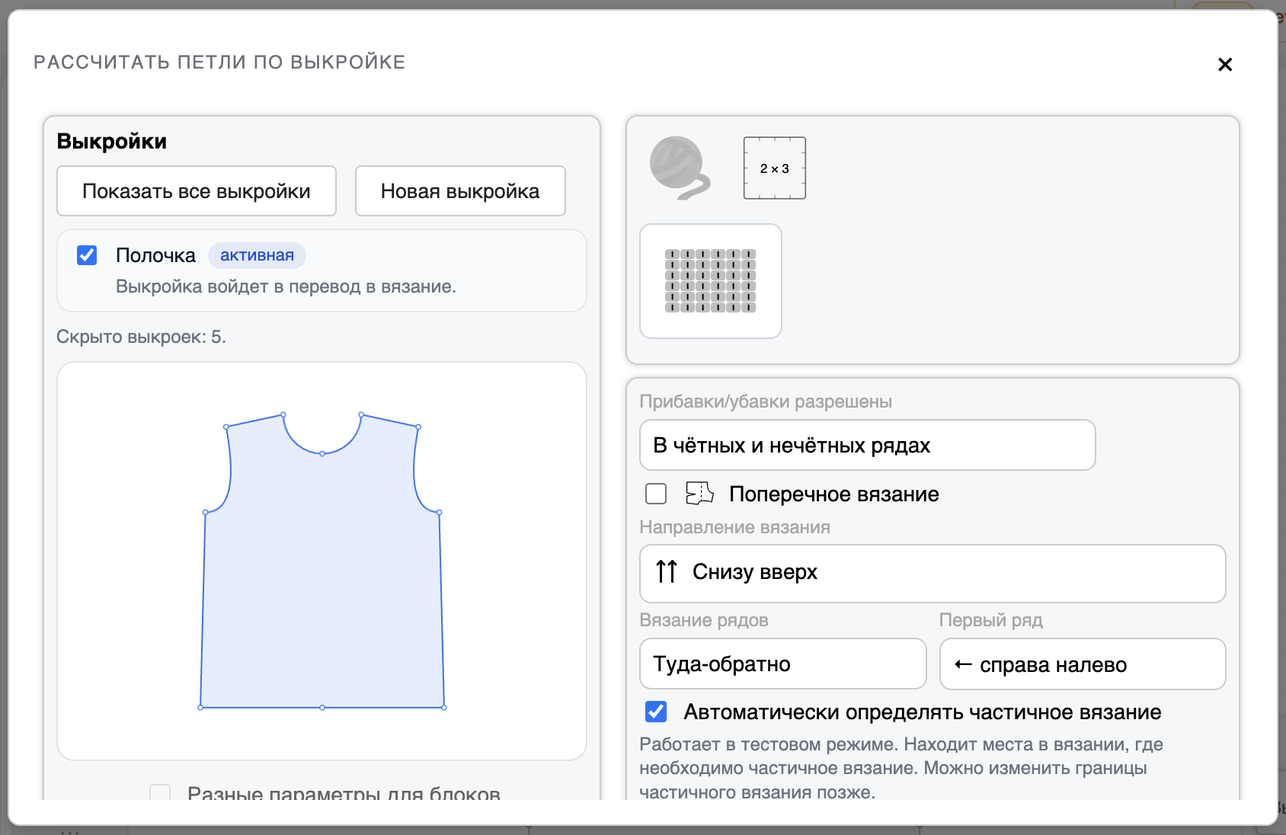
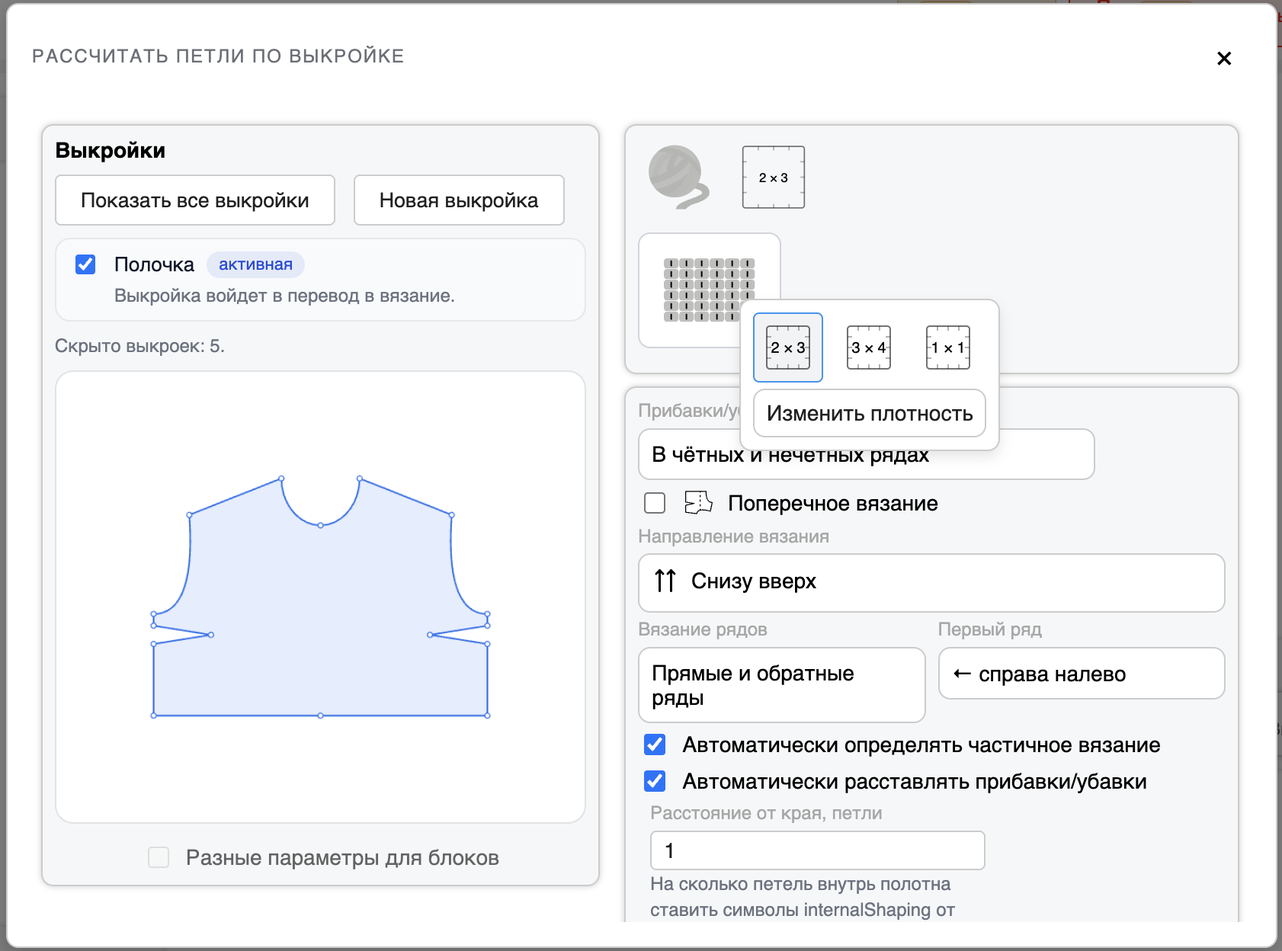
Update pattern-to-knitting calculation documentation

diff --git a/docusaurus.config.js b/docusaurus.config.js
@@ -82,6 +82,12 @@ const config = {
           exclude: process.env.NODE_ENV === 'production' ? ['**/dev-progress.js'] : [],
         },
 
+        sitemap: {
+          lastmod: 'date',
+          changefreq: null,
+          priority: null,
+        },
+
         theme: {
           customCss: './src/css/custom.css',
         },

diff --git a/docs/concepts/pattern-to-knitting.md b/docs/concepts/pattern-to-knitting.md
@@ -1,21 +1,18 @@
 ---
 id: pattern-to-knitting-concept
-title: "Перевод выкройки в схему вязания"
+title: "Расчет петель для вязания по выкройке"
 description: "Что происходит, когда CustomKnits рассчитывает схему вязания по выкройке."
-sidebar_label: "Перевод выкройки в схему вязания"
+sidebar_label: "Расчет петель для вязания по выкройке"
 sidebar_position: 6
 doc_type: "concept"
 product_area: "knitting"
 owner: "docs"
 status: "done"
-last_reviewed: "2026-06-07"
+last_reviewed: "2026-07-30"
 ---
 
-# Перевод выкройки в схему вязания
+# Расчет петель для вязания по выкройке
 
-Перевод выкройки в схему вязания — это расчет, в котором форма в сантиметрах превращается в схему из петель.
-
-Редактор берет геометрию выкройки, выбранную плотность и параметры расчета, а затем строит схему вязания. После расчета схема становится отдельной сущностью: ее можно редактировать как обычную схему вязания.
 
 <img
   src={require('/img/knitting/pattern-to-knitting/calculate-from-pattern-form.png').default}
@@ -23,35 +20,100 @@ last_reviewed: "2026-06-07"
   alt="Форма расчета петель по выкройке"
 />
 
+Расчет петель по выкройке — одна из ключевых функций редактора.
+
+При разработке редактора мы решаем сразу несколько задач, которые иногда противоречат друг другу. Это во многом отражает и само вязание: мы стремимся получить точную форму, но работаем с полотном, состоящим из отдельных петель. Размер петли неизбежно ограничивает точность, с которой можно воспроизвести выкройку.
+
+Во-первых, процесс проектирования должен быть понятным для человека, который вяжет. Пользователь работает с привычными понятиями: рядами, петлями, прибавками, убавками, частичным вязанием, набором и закрытием петель. Редактор строится вокруг логики вязания.
+
+Во-вторых, мы хотели сделать инструмент достаточно универсальным. Алгоритм не рассчитан на несколько заранее подготовленных шаблонов изделий. Его задача — уметь работать с произвольными выкройками. Во время расчёта петель редактор не знает, рассчитывает ли он рукав, перед, капюшон или совершенно произвольную деталь. Алгоритм работает с геометрией, а не с заранее заданными типами изделий.
+
+Наконец, результат должен соответствовать реальной технологии вязания. Недостаточно получить силуэт, похожий на исходную выкройку. Необходимо понимать, каким образом эта форма возникает ряд за рядом, петля за петлей, где выполняются прибавки и убавки, а где требуется частичное вязание или специальные приёмы.
+
+Из-за этого расчёт петель по выкройке выполняется в несколько этапов, и на каждом из них возникают свои задачи и ограничения.
+
+Сначала необходимо определить, какая клеточная форма должна получиться с учётом плотности вязания.
+
+Затем — решить, какими вязальными операциями эту форму можно построить.
+
+И только после этого — проверить, что каждая петля имеет непротиворечивую историю и что получившуюся схему действительно можно связать.
+
+Ниже мы подробно разбираем, что происходит на каждом этапе, почему алгоритм принимает именно такие решения и на какие из этих решений вы может повлиять.
+
+
+# 1. Собираем требования к переводу и создаем петельное представление
+
+Работа начинается с обычной выкройки. На этом этапе редактор ещё не думает о прибавках, убавках или способах вязания. Его первая задача — определить, как должна выглядеть форма детали в петлях.
+
+Для этого сначала собираются все требования, которые необходимо учесть при расчёте. Это направление вязания, направление вязания внутри рядов, участки, в которых разрешены или запрещены прибавки и убавки, заданный ритм формирования отдельных линий, выбранные способы их вязания, а также блоки выкройки, для которых действуют собственные правила.
+
+Большинство этих требований задаёте вы сами при создании выкройки и выборе параметров переводчика.
+
+Кроме пользовательских настроек существуют и правила, встроенные в сам алгоритм. Они отражают привычные ожидания человека. Например, если две части выкройки выглядят одинаковыми или симметричными, то и рассчитанное петельное представление должно быть одинаковым и симметричным.
+
+Проблема в том, что единственного правильного способа совместить все эти требования при переводе геометрической формы в петельное представление не существует. Иногда они начинают противоречить друг другу. Например, можно точнее повторить контур выкройки, но потерять симметрию, или наоборот — немного изменить форму, зато сохранить одинаковые клинья или одинаковый ритм формирования.
+
+Поэтому задача редактора — не найти «единственно правильное» решение, а выбрать наиболее естественный вариант с точки зрения вязания.
+
+Чтобы у алгоритма было пространство для такого выбора, в переводчике используется допустимая геометрическая погрешность. Петельное представление может отличаться от исходной выкройки не более чем на 1,5 см. В пределах этой погрешности редактор может немного изменить количество петель или рядов, если это позволяет получить более симметричную, аккуратную или естественную для вязания форму.
+
+Например, если редактор видит на выкройке четыре одинаковых клина, то он скорее выберет решение, в котором все четыре клина останутся одинаковыми в петлях, даже если для этого общая ширина детали станет на пару петель больше, чем следует строго по выкройке. Это предпочтительнее, чем получить идеально точную ширину, но нарушить ритм и симметрию клиньев.
+
+Если коротко, редактор на этом этапе исходит из принципа: «Красивые линии убавок никто не отменял».
+
+# 2. Превращаем форму из петель в последовательность вязальных операций
+
+На первом этапе редактор определил, какой должна получиться форма детали в петлях. Теперь возникает новый вопрос: как эта форма могла появиться в процессе вязания?
+
+Каждая петля должна иметь понятную историю. Если в каком-то месте петля исчезла, редактор должен определить, что именно произошло: была выполнена убавка внутри полотна, петля была закрыта по краю или осталась на спице в результате частичного вязания. Если петля появилась, необходимо понять, была ли она набрана или возникла другим способом.
+
+На этом этапе геометрия уже известна. Теперь редактор решает технологическую задачу: какие вязальные операции и в каком порядке позволяют получить рассчитанную форму.
+
+Не каждую операцию можно выполнить в любом месте полотна. Необходимо определить, где допустимо выполнять прибавки и убавки, где можно закрывать или набирать петли, когда следует перейти на частичное вязание, а когда изменить направление вязания внутри рядов. Если какое-либо действие невозможно выполнить в нужной точке, редактор должен найти ближайшее место, где оно будет технологически корректным.
+
+Именно здесь начинают играть ключевую роль требования, собранные на первом этапе. Направление вязания, разрешённая четность рядов для прибавок и убавок, предпочтительный ритм формирования линий и другие параметры не просто влияют на внешний вид детали — они определяют, какие технологические решения редактор вообще может принять.
+
+Поэтому если у вас есть определённые ожидания от результата, их важно задать заранее — при создании выкройки и выборе параметров переводчика.
+
+# 3. Проверяем полученную схему на непротиворечивость
+
+После того как редактор определил форму детали и восстановил последовательность вязальных операций, необходимо убедиться, что получившуюся схему действительно можно связать.
+
+На этом этапе редактор проверяет непротиворечивость всей последовательности рядов. Он отслеживает историю каждой петли и убеждается, что все операции согласованы между собой. Если обнаруживается ситуация, которую невозможно однозначно объяснить с точки зрения технологии вязания, редактор сообщает об этом пользователю.
+
+Критическими считаются ошибки, которые делают схему невыполнимой или неоднозначной. Например:
+
+в ряду осталась незакрытая петля;
+петля появилась «из ниоткуда» — редактор не смог определить, какой вязальной операцией она должна была возникнуть;
+одновременно требуется закрыть петли в конце ряда и выполнить набор петель в начале следующего ряда.
+
+Все найденные ошибки редактор подсвечивает непосредственно в схеме, чтобы их можно было быстро найти и исправить.
+
+Главный принцип этого этапа прост: если редактор не смог уверенно определить правильную вязальную операцию, он не станет делать предположение молча. Лучше предупредить о неоднозначности заранее, чем обнаружить проблему в процессе вязания, когда значительная часть детали уже выполнена.
+
+На практике такие ситуации встречаются редко и обычно связаны со сложной или нестандартной геометрией детали. Если редактор не смог автоматически принять решение, это означает, что существует несколько возможных вариантов построения схемы. В этом случае окончательный выбор остаётся за пользователем, который лучше знает, какой технологический приём подходит для конкретной модели.
+
+
+# Продолжение работы с готовым расчетом
+
+После создания расчета схема остается полностью редактируемой. При необходимости вы можете изменить ее вручную — например, для деталей со сложной геометрией, в местах, где невозможно одновременно удовлетворить все ограничения, или если этого требует дизайнерское решение.
+
+Также после создания расчета можно зафиксировать расположение убавок и прибавок. После этого вы сможете свободно менять узоры, пряжу и другие параметры детали, не опасаясь нарушить ее форму.
+
+
 ## Что влияет на результат
 
 Главный параметр расчета — плотность. Если плотность задана точно по образцу, схема будет ближе к размерам выкройки. Если плотность примерная, результат тоже будет примерным.
 
 На результат также влияют:
 
-- выбранные выкройки;
 - пряжа;
 - узор;
 - направление вязания;
-- способ вязания;
 - настройки прибавок, убавок и частичного вязания;
-- блоки выкройки, если они заданы.
-
-## Зачем нужны параметры расчета
-
-Параметры расчета нужны не только для количества петель. Они помогают сделать схему удобнее для дальнейшего вязания: вручную или на бытовой вязальной машине.
-
-Например, можно выбрать направление первого ряда, ограничить ряды, в которых допустимы прибавки и убавки, или включить поперечное вязание.
-
-## Блоки выкройки
-
-Если на выкройке есть блоки, для разных областей можно задать разные параметры перевода. Например, выбрать один узор для резинки и другой для основного полотна.
-
-Блоки также можно использовать для дизайна: например, заранее задать колор-блок из разных пряж на уровне выкройки, а потом переводить тот же дизайн в схему вязания с разными плотностями.
-
-## После расчета
-
-После расчета появляется схема вязания. Она не обязана оставаться точно такой, какой ее построил редактор: рассчитанную схему можно редактировать вручную.
+- настройки вязания конкретных линий, если они заданы;
+- блоки выкройки, если они заданы;
+- выбранный режим расчёта. Если отключена опция «Автоматически расставлять убавки», редактор выполнит только первый этап расчёта и построит петельное представление детали. Часто этого достаточно. Если опция включена, редактор выполнит все три этапа: восстановит последовательность вязальных операций и проверит полученную схему на непротиворечивость.
 
 ## Связанные статьи
 

diff --git a/docs/getting-started/index.md b/docs/getting-started/index.md
@@ -8,7 +8,7 @@ sidebar_position: 1
 doc_type: "overview"
 product_area: "general"
 owner: "docs"
-status: "draft"
+status: "todo"
 last_reviewed: "2026-06-06"
 ---
 

diff --git a/docs/reference/index.md b/docs/reference/index.md
@@ -7,7 +7,7 @@ sidebar_position: 1
 doc_type: "overview"
 product_area: "general"
 owner: "docs"
-status: "draft"
+status: "todo"
 last_reviewed: "2026-06-06"
 ---
 

diff --git a/docs/workflows/index.md b/docs/workflows/index.md
@@ -7,7 +7,7 @@ sidebar_position: 1
 doc_type: "overview"
 product_area: "general"
 owner: "docs"
-status: "draft"
+status: "todo"
 last_reviewed: "2026-06-06"
 ---
 
